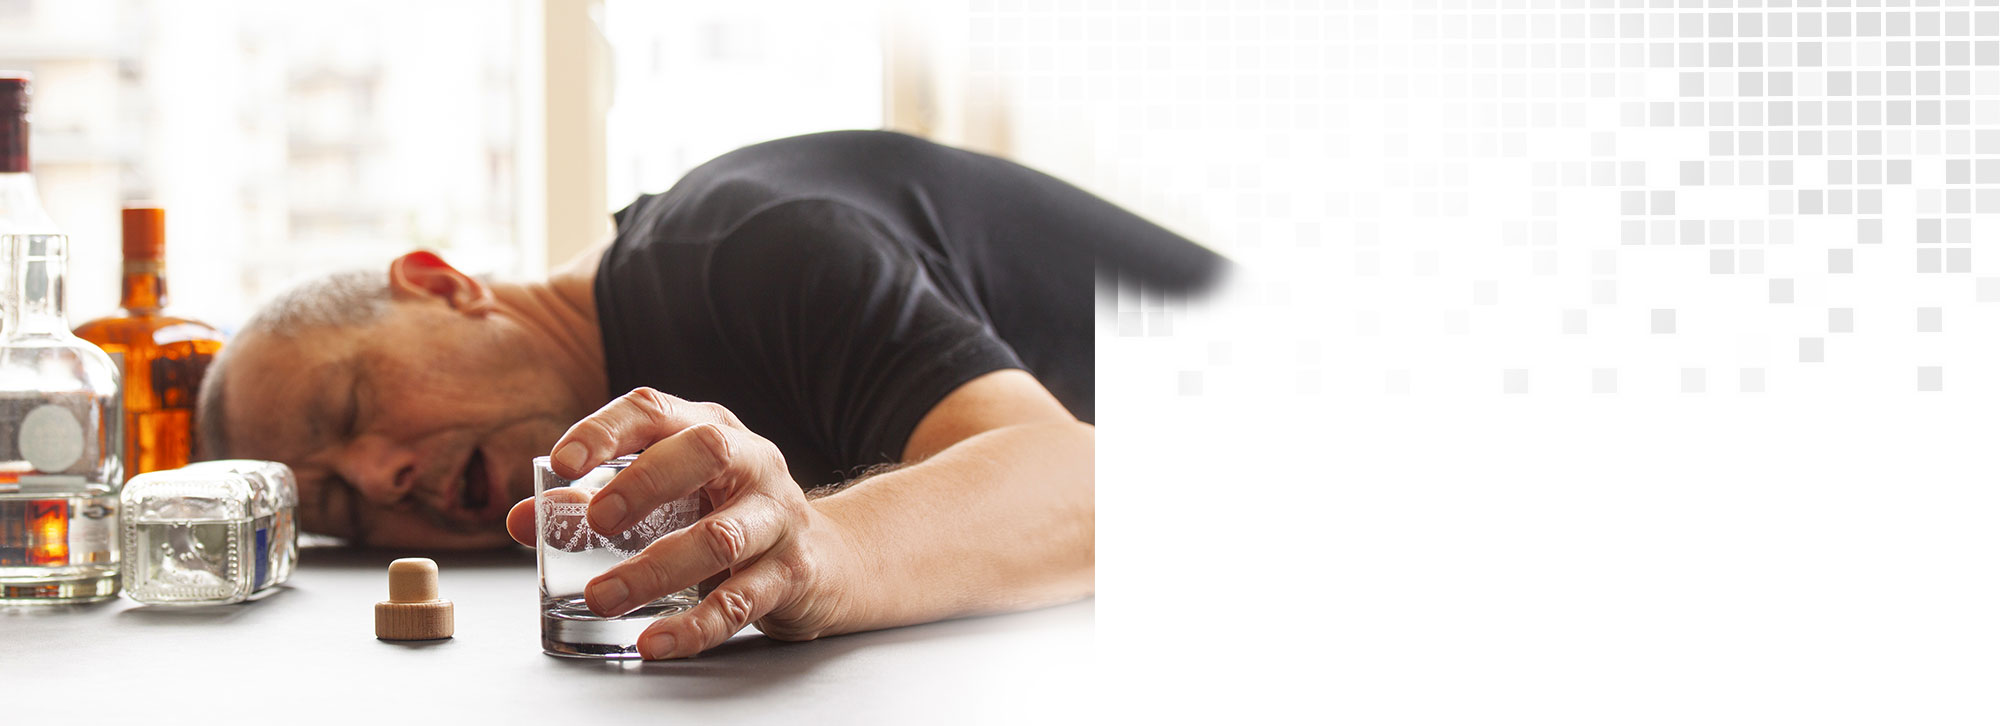
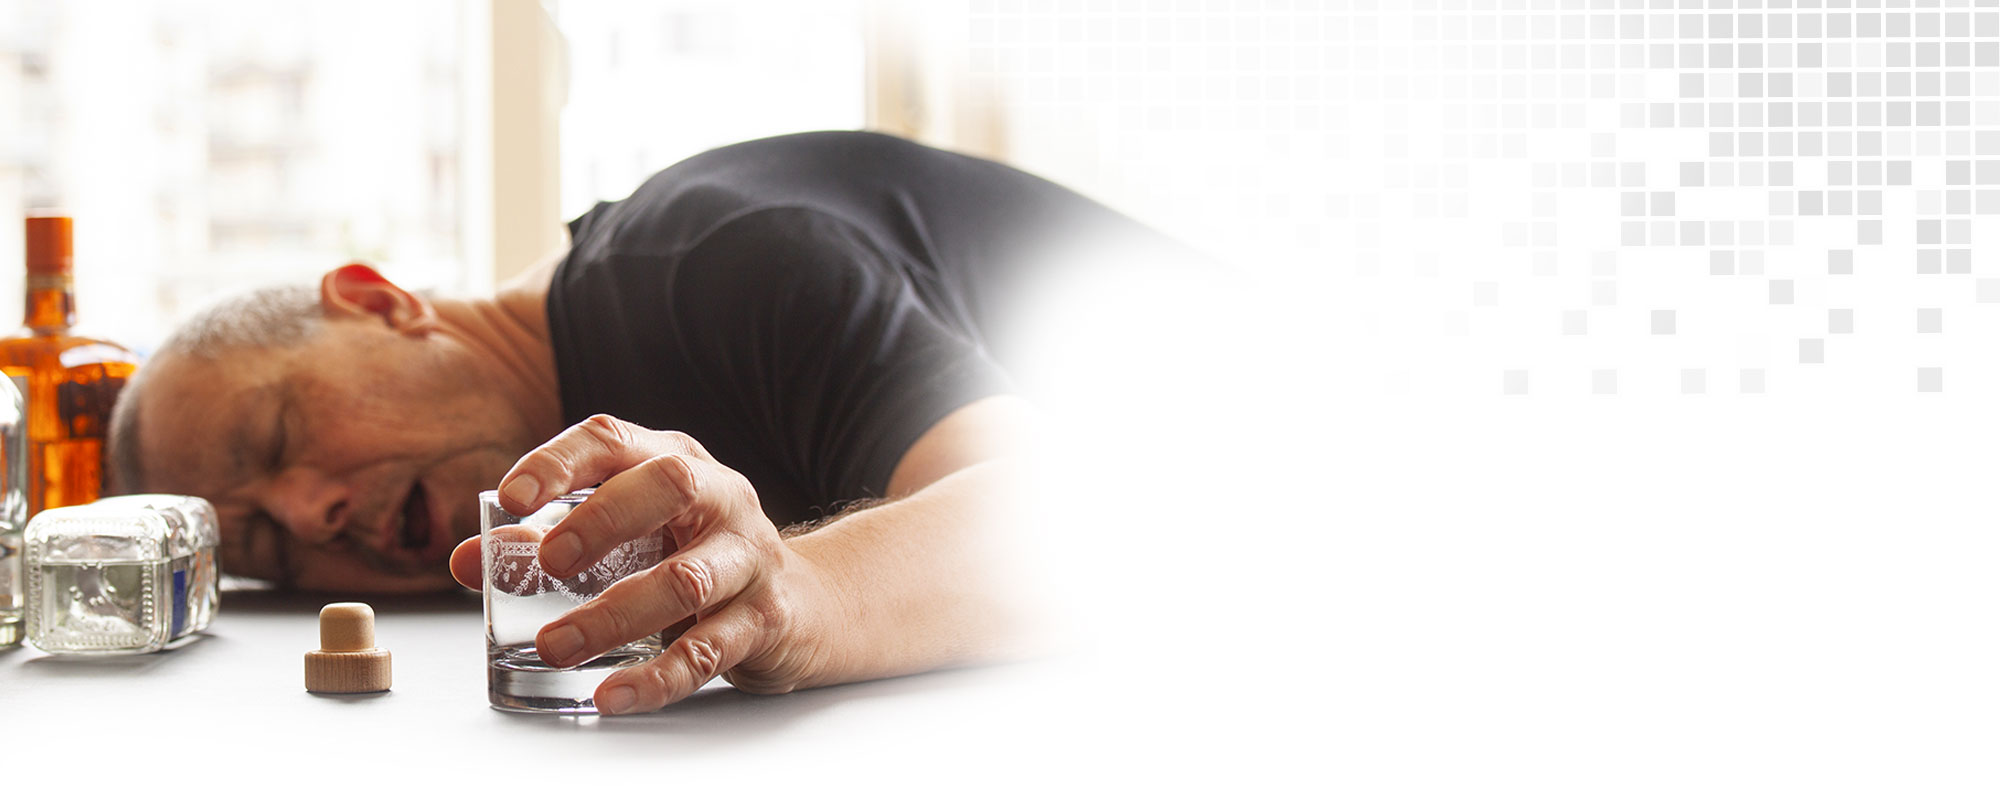
alcotox новый psd новые правки

diff --git a/alcatox/template/index.html b/alcatox/template/index.html
@@ -73,12 +73,13 @@
         <section class="section section_drugs">
     <div class="container">
         <div class="drugs">
-            <div class="drugs__title wow bounceInLeft" data-wow-offset="200">Самый <mark>часто употребляемый</mark> наркотик</div>
+            <div class="drugs__title wow bounceInLeft" data-wow-offset="200">Самый <mark>часто употребляемый</mark> <span>наркотик</span></div>
             <div class="drugs__sub-title"><mark>Эффект от употребления алкогольных напитков известен каждому:</mark> когда вы навеселе, кажется, что жизнь сплошной праздник. </div>
             <div class="drugs__description">
-                Как только вы допиваете первый коктейль, на уровне биохимии уже запущен эйфорический процесс. Именно из-за него вас начинает тянуть на второй стакан. Кажется, что вы ещё совсем трезвы, а потом контроль над ситуацией полностью пропадает.
-                <br>
-                Большое количество этанола подавляет активность нейронов, психика растормаживается. После третьего-четвёртого коктейля социальные нормы отодвигаются. Один становится неуклюжим, у другого похотливо блестят глаза, а третий начинает агрессивно реагировать на окружающих.
+                Когда вы допиваете первый коктейль, <b>на уровне биохимии уже запущен эйфорический и наркотический эффекты</b>.
+                <br><br>
+                Воздействие этанола приводит к общему снижению активности нейронов. <b>Психика растормаживается</b>. Социальные нормы отодвигаются. Один становится неуклюжим, у другого похотливо блестят глаза,
+                а третьего агрессивно заносит.
             </div>
             <div class="drugs__dependence">
                 <span>Тяга к алкоголю только поначалу кажется безобидным развлечением, доступным способом снять стресс. Однажды вы ловите себя на мысли, что</span> <mark>без спиртного ваша жизнь теряет смысл.</mark>
@@ -99,6 +100,7 @@
                 <div class="facts__item">Вы гораздо более <mark>скованы в сексе</mark></div>
                 <div class="facts__item">Вам сложно поговорить по душам <mark>на трезвую голову</mark></div>
             </div>
+            <div class="facts__footer">не откладывайте лечение!</div>
         </div>
     </div>
 </section>
@@ -168,10 +170,16 @@
         <div class="professional">
             <div class="professional__title wow bounceInRight" data-wow-offset="200">Мнение специалиста</div>
             <div class="professional__info">
-                <p>Алкоголизм – это болезнь, которую сложно диагностировать вовремя. Как любая зависимость, она путает сознание и мешает адекватному восприятию реальности. Люди до последнего уверены, что все под контролем. </p>
-                <p>Если вы или ваши родственники столкнулись с очевидными признаками алкозависимости, рассмотрите прием препаратов от этой болезни. В условиях амбулаторного лечения можно принимать Alcotox. </p>
-                <p>Это средство на растительной основе, не вызывающее негативной реакции. Стабильно и постепенно составляющие препарата отбивают тягу к алкоголю у зависимых лиц. </p>
-                <p>Alcotox очищает организм, выводит продукты распада алкоголя и восстанавливает поврежденные органы. За один курс зависимость сходит на нет, у человека появляется естественное желание быть трезвым. Это доказано опытным путем и проверено сотнями моих пациентов. </p>
+                <p>Алкоголизм – это болезнь, которую сложно диагностировать вовремя. Как любая зависимость, он путает сознание и мешает адекватному восприятию реальности. Люди до последнего уверены, что все под контролем.</p>
+
+                <p>Если вы или ваши родственники столкнулись с очевидными признаками алкозависимости, рассмотрите прием препаратов от этой болезни.
+                    В условиях амбулаторного лечения можно принимать Алкотокс.
+                    Это средство на растительной основе, не вызывающее негативной реакции. Стабильно и постепенно составляющие препарата
+                    отбивают тягу к алкоголю у зависимых лиц.</p>
+
+                <p>Алкотокс очищает организм, выводит продукты распада алкоголя и восстанавливает поврежденные органы. За один курс зависимость сходит на нет, у человека появляется естественное желание
+                    быть трезвым. Это доказано опытным путем и проверено
+                    сотнями моих пациентов.</p>
                 <div class="professional__footer">
                     <div class="professional__id"><img src="../media/professional/id.png" alt=""></div>
                     <div class="professional__name">Роберт Геллер</div>

diff --git a/alcatox/css/style.css b/alcatox/css/style.css
@@ -3834,7 +3834,7 @@ THE SOFTWARE IS PROVIDED "AS IS", WITHOUT WARRANTY OF ANY KIND, EXPRESS OR IMPLI
   align-items: center;
   min-height: 63px;
   padding-left: 85px;
-  font-size: 24px;
+  font-size: 22px;
   font-weight: 500;
   color: #fff;
   text-transform: uppercase;
@@ -4160,23 +4160,13 @@ THE SOFTWARE IS PROVIDED "AS IS", WITHOUT WARRANTY OF ANY KIND, EXPRESS OR IMPLI
   color: #a0320c;
 }
 
-.drugs__sub-title {
+.drugs__title span {
   position: relative;
-  max-width: 765px;
-  min-height: 95px;
   padding-left: 117px;
-  margin-bottom: 25px;
-  font-size: 24px;
+  line-height: 95px;
 }
 
-.drugs__sub-title mark {
-  font-weight: 500;
-  color: #fff;
-  text-transform: uppercase;
-  background-color: #5e4c20;
-}
-
-.drugs__sub-title::before {
+.drugs__title span::before {
   position: absolute;
   top: 0;
   left: 0;
@@ -4185,6 +4175,19 @@ THE SOFTWARE IS PROVIDED "AS IS", WITHOUT WARRANTY OF ANY KIND, EXPRESS OR IMPLI
   content: '';
   background-image: url("../media/drugs/alchogol.png");
   background-repeat: no-repeat;
+}
+
+.drugs__sub-title {
+  position: relative;
+  max-width: 651px;
+  min-height: 95px;
+  margin-bottom: 25px;
+  font-size: 24px;
+}
+
+.drugs__sub-title mark {
+  font-weight: 500;
+  text-transform: uppercase;
 }
 
 .drugs__description {
@@ -4392,6 +4395,7 @@ THE SOFTWARE IS PROVIDED "AS IS", WITHOUT WARRANTY OF ANY KIND, EXPRESS OR IMPLI
 }
 
 .face__appearance {
+  margin-top: 200px;
   margin-left: auto;
   font-size: 46px;
   font-weight: 500;
@@ -4425,6 +4429,10 @@ THE SOFTWARE IS PROVIDED "AS IS", WITHOUT WARRANTY OF ANY KIND, EXPRESS OR IMPLI
   .face__check {
     margin-top: 470px;
     margin-bottom: 0;
+  }
+
+  .face__appearance {
+    margin-top: 50px;
   }
 }
 
@@ -4531,7 +4539,7 @@ THE SOFTWARE IS PROVIDED "AS IS", WITHOUT WARRANTY OF ANY KIND, EXPRESS OR IMPLI
   font-size: 72px;
   font-weight: 500;
   line-height: 72px;
-  color: #da4d52;
+  color: #5e4c20;
   text-align: right;
   text-transform: uppercase;
 }
@@ -4540,6 +4548,7 @@ THE SOFTWARE IS PROVIDED "AS IS", WITHOUT WARRANTY OF ANY KIND, EXPRESS OR IMPLI
   width: 100%;
   max-width: 638px;
   padding: 50px 25px;
+  margin-bottom: 80px;
   margin-left: auto;
   background-color: #ffeaeb;
   border: 3px solid  #da4d52;
@@ -4571,6 +4580,15 @@ THE SOFTWARE IS PROVIDED "AS IS", WITHOUT WARRANTY OF ANY KIND, EXPRESS OR IMPLI
 
 .facts__item + .facts__item {
   margin-top: 30px;
+}
+
+.facts__footer {
+  font-size: 60px;
+  font-weight: 500;
+  line-height: 60px;
+  color: #da4d52;
+  text-align: center;
+  text-transform: uppercase;
 }
 
 @media (max-width: 768px) {
@@ -5103,7 +5121,7 @@ THE SOFTWARE IS PROVIDED "AS IS", WITHOUT WARRANTY OF ANY KIND, EXPRESS OR IMPLI
 }
 
 .professional__info {
-  max-width: 781px;
+  max-width: 805px;
   padding: 50px;
   margin-left: auto;
   font-size: 19px;
@@ -5238,7 +5256,7 @@ THE SOFTWARE IS PROVIDED "AS IS", WITHOUT WARRANTY OF ANY KIND, EXPRESS OR IMPLI
 .section_face {
   position: relative;
   z-index: 2;
-  padding-bottom: 500px;
+  padding-bottom: 250px;
   background-image: url("../media/section/face.jpg");
   background-repeat: no-repeat;
   background-position: center top;
@@ -5247,14 +5265,18 @@ THE SOFTWARE IS PROVIDED "AS IS", WITHOUT WARRANTY OF ANY KIND, EXPRESS OR IMPLI
 .section_face::before {
   position: absolute;
   bottom: 0;
-  left: 0;
+  left: 50%;
   z-index: -1;
-  width: 100%;
-  height: 754px;
+  width: 834px;
+  height: 624px;
   content: '';
   background-image: url("../media/section/face-human.png");
   background-repeat: no-repeat;
   background-position: center bottom;
+  background-size: cover;
+  -webkit-transform: translateX(-624px);
+  -ms-transform: translateX(-624px);
+  transform: translateX(-624px);
 }
 
 .section_footer {
@@ -5270,7 +5292,6 @@ THE SOFTWARE IS PROVIDED "AS IS", WITHOUT WARRANTY OF ANY KIND, EXPRESS OR IMPLI
 }
 
 .section_drugs {
-  margin-top: -101px;
   background-image: url("../media/section/drugs.jpg");
   background-repeat: no-repeat;
   background-position: center top;
@@ -5280,7 +5301,6 @@ THE SOFTWARE IS PROVIDED "AS IS", WITHOUT WARRANTY OF ANY KIND, EXPRESS OR IMPLI
   background-image: url("../media/section/facts.jpg");
   background-repeat: no-repeat;
   background-position: center top;
-  background-size: cover;
 }
 
 .section_help {
@@ -5304,10 +5324,10 @@ THE SOFTWARE IS PROVIDED "AS IS", WITHOUT WARRANTY OF ANY KIND, EXPRESS OR IMPLI
 }
 
 .section_professional {
+  background-color: #fff;
   background-image: url("../media/section/professional.jpg");
   background-repeat: no-repeat;
-  background-position: center top;
-  background-size: cover;
+  background-position: center bottom;
 }
 
 .section_warning {
@@ -5320,8 +5340,12 @@ THE SOFTWARE IS PROVIDED "AS IS", WITHOUT WARRANTY OF ANY KIND, EXPRESS OR IMPLI
   }
 
   .section_face::before {
+    left: 20px;
+    width: 518px;
     height: 388px;
-    background-image: url("../media/section/face-human-1030.png");
+    -webkit-transform: translateX(0);
+    -ms-transform: translateX(0);
+    transform: translateX(0);
   }
 
   .section_footer {
@@ -5329,7 +5353,6 @@ THE SOFTWARE IS PROVIDED "AS IS", WITHOUT WARRANTY OF ANY KIND, EXPRESS OR IMPLI
   }
 
   .section_drugs {
-    margin-top: -52px;
     background-size: cover;
   }
 
@@ -5362,8 +5385,8 @@ THE SOFTWARE IS PROVIDED "AS IS", WITHOUT WARRANTY OF ANY KIND, EXPRESS OR IMPLI
   }
 
   .section_face::before {
+    width: 386px;
     height: 289px;
-    background-image: url("../media/section/face-human-768.png");
   }
 
   .section_footer {
@@ -5395,8 +5418,8 @@ THE SOFTWARE IS PROVIDED "AS IS", WITHOUT WARRANTY OF ANY KIND, EXPRESS OR IMPLI
   }
 
   .section_face::before {
+    width: 242px;
     height: 181px;
-    background-image: url("../media/section/face-human-480.png");
   }
 
   .section_footer {
